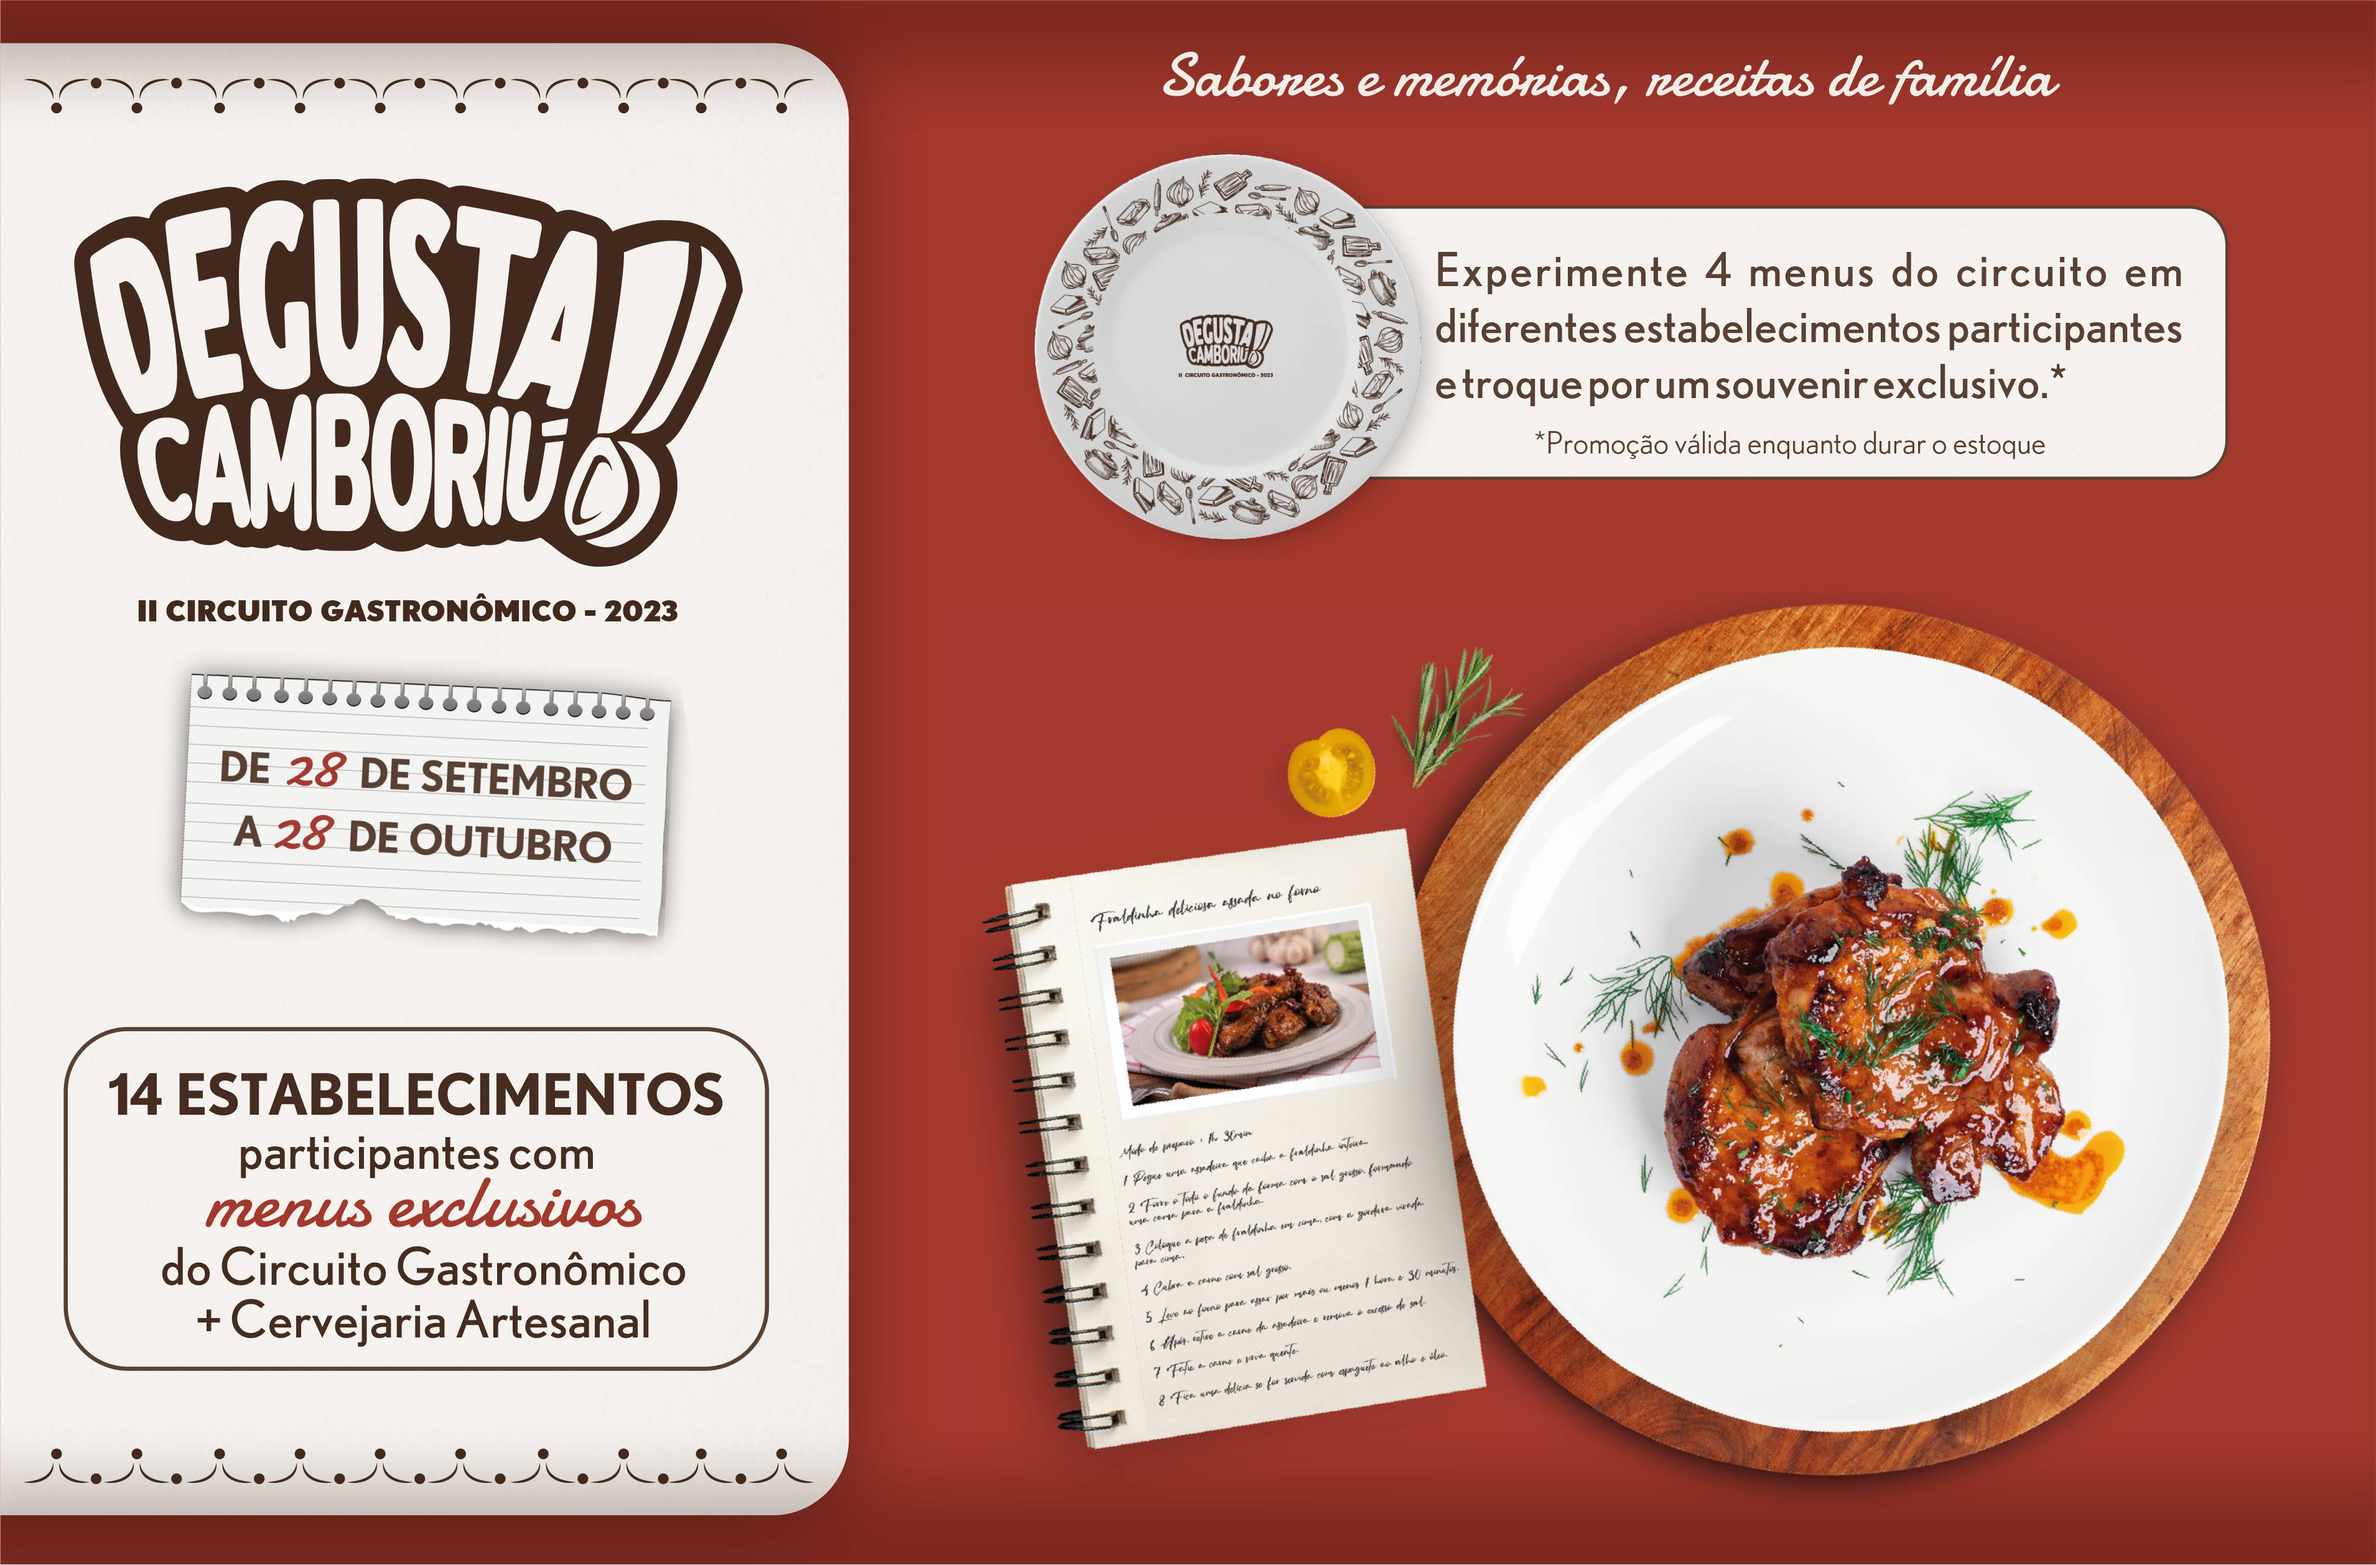
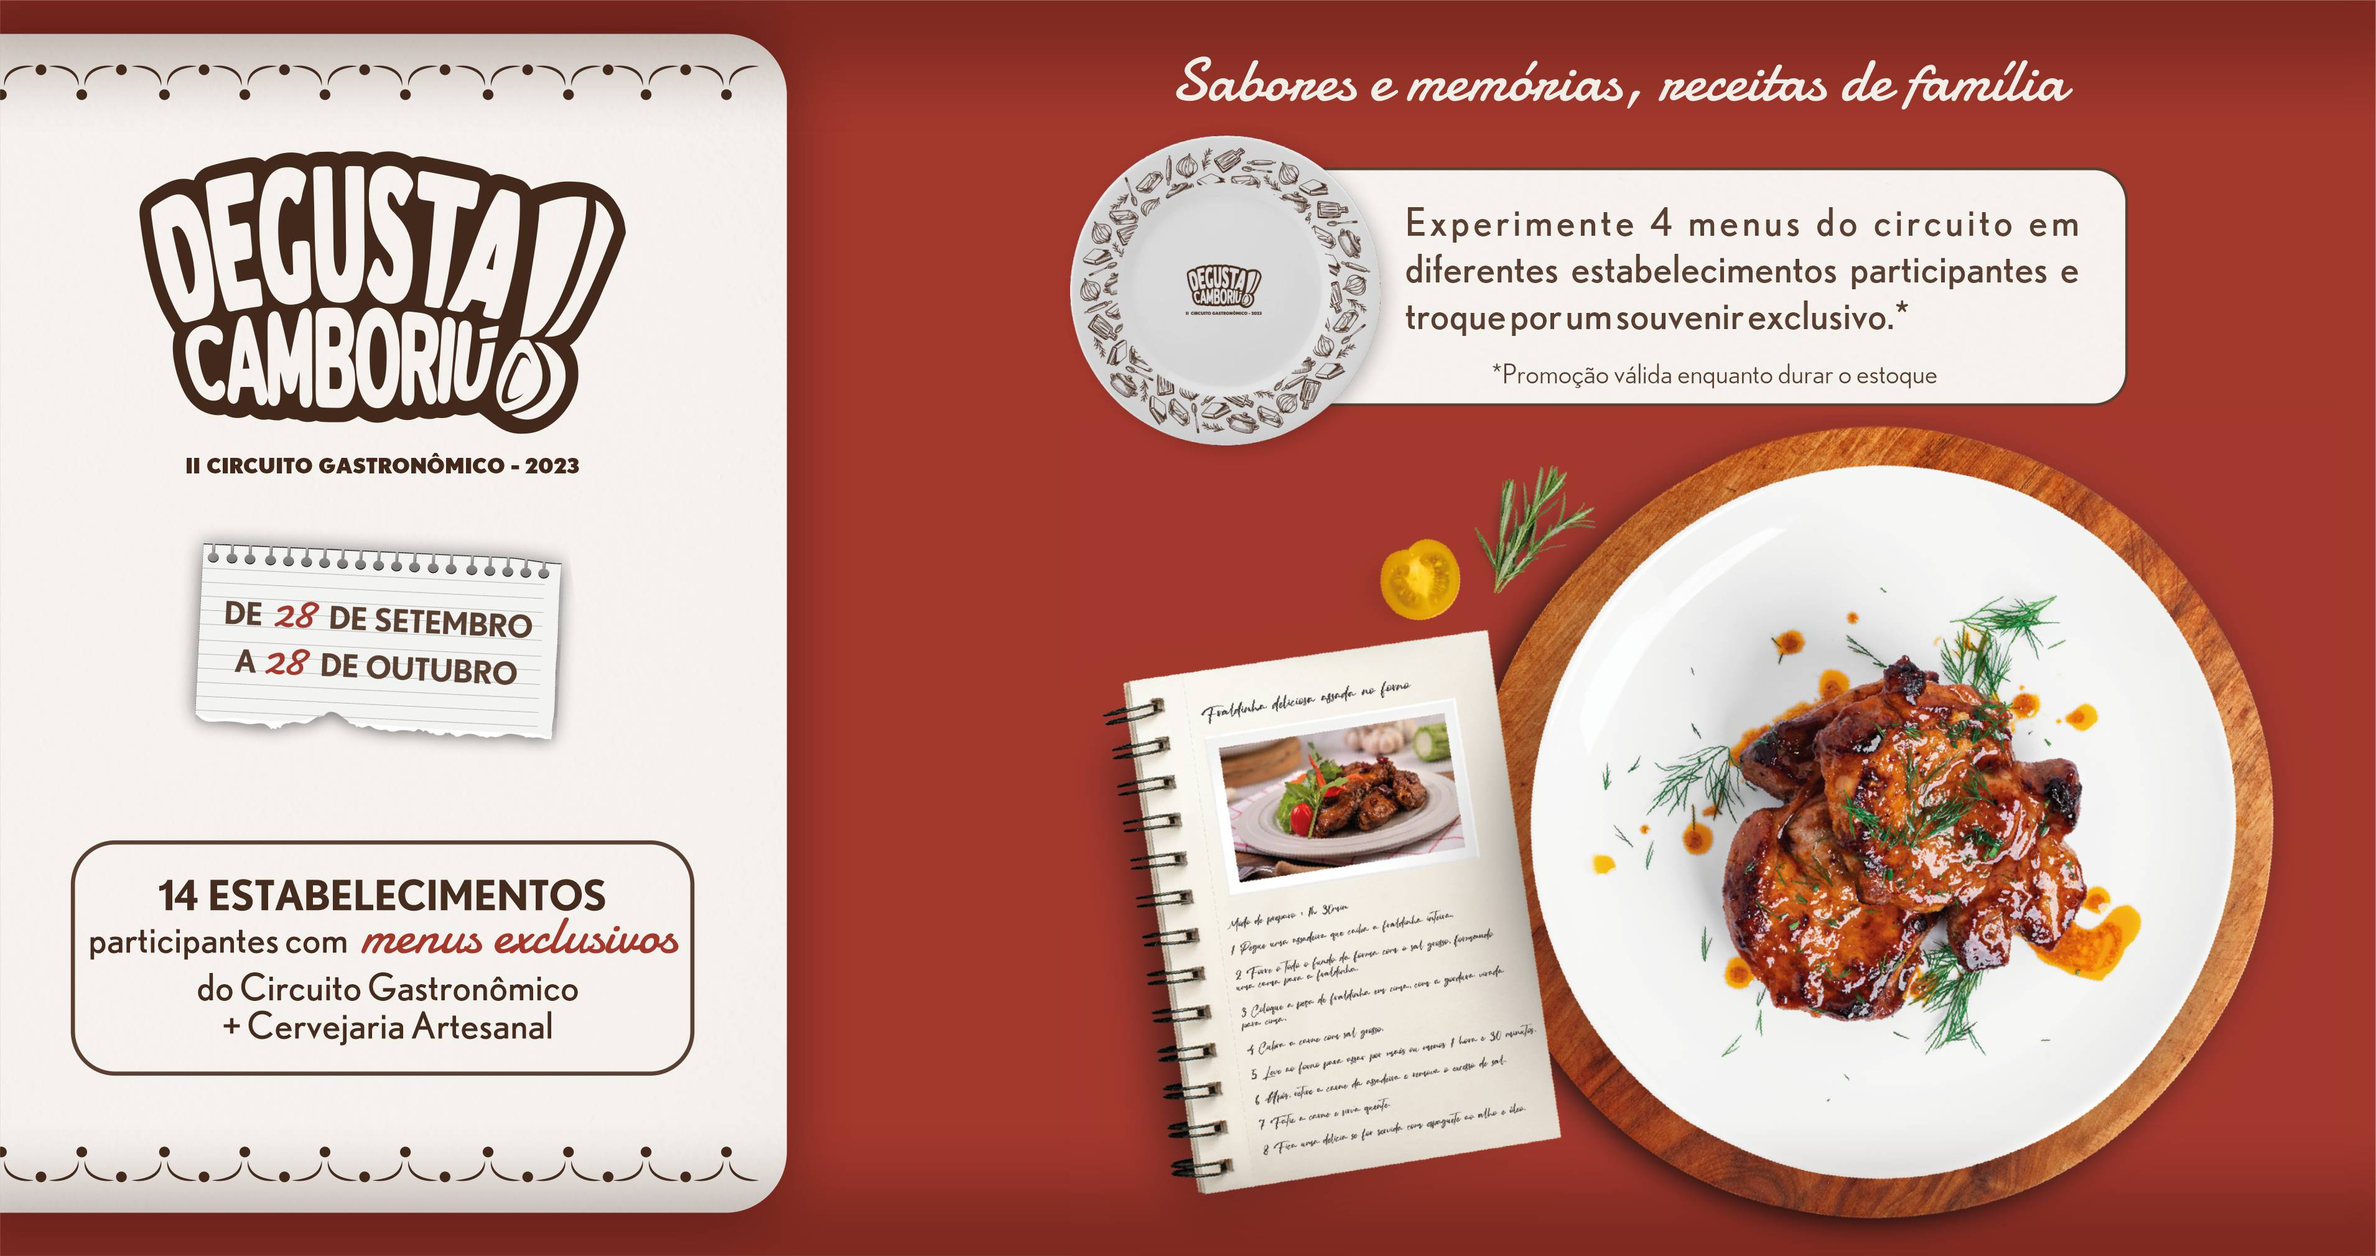
Update

diff --git a/assets/estilos/main/main-sobre.css b/assets/estilos/main/main-sobre.css
@@ -3,7 +3,7 @@
     background-color: var(--color-dark);
     padding: 5rem 0;
     margin: 0;
-    width: 100vw;
+    width: 100%;
     height: auto;
 }
 .main-sobre .wrap-img {
@@ -11,10 +11,10 @@
     align-items: center;
     justify-content: center;
     padding: 100px 30px;
-    width: 50vw;
+    width: 50%;
 }
 .main-sobre .img-souvenir {
-    width: 35vw;
+    width: 35%;
 }
 .main-sobre .wrap-info{
     display: flex;
@@ -22,7 +22,7 @@
     align-items: center;
     justify-content: center;
     padding: 2rem 0 0;
-    max-width: 45vw;
+    max-width: 45%;
 }
 .main-sobre .t-titulo-secao {
     background-image: url(../../imagens/icons-decoration/titulo-papel-rasgado.png);

diff --git a/assets/estilos/main/main-banner.css b/assets/estilos/main/main-banner.css
@@ -1,7 +1,7 @@
 .main-banner {
     display: flex;
     justify-content: center;
-    width: 100vw;
+    width: 100%;
 }
 .main-banner .img-banner.-desktop {
     display: block;

diff --git a/assets/estilos/main/main-pratos/main-pratos.css b/assets/estilos/main/main-pratos/main-pratos.css
@@ -38,7 +38,7 @@
 .slide-item {
     flex-shrink: 0;
     padding: 0 2.5vw;
-    width: 410px;
+    width: 480px;
 }
 .wrapper-cards {
     display: flex;
